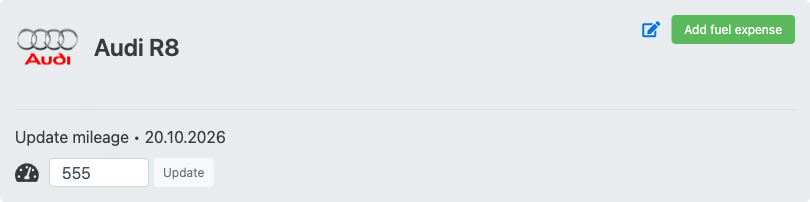
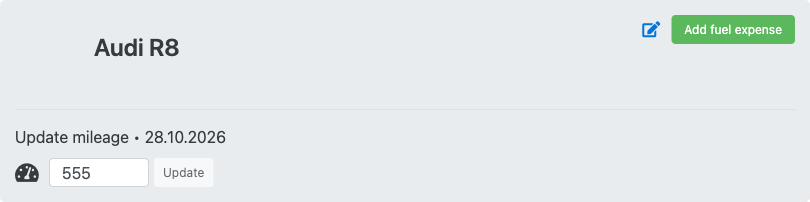
cosmetic changes

Changed region(s): [[0.0, 0.1188, 0.0926, 0.3267], [0.1852, 0.6535, 0.2778, 0.7129]]

diff --git a/tests/lesson.22/lesson.22.spec.ts b/tests/lesson.22/lesson.22.spec.ts
@@ -1,0 +1,144 @@
+import test, { expect } from "@playwright/test";
+
+test.beforeEach(async ({ page }) => {
+  await page.goto("https://qauto.forstudy.space/");
+  await page.getByRole("button", { name: "Sign up" }).click();
+});
+
+test("Register button - success sign up", async ({ page }) => {
+  await page.locator("#signupName").fill("John");
+  await page.locator("#signupLastName").fill("Smith");
+  await page.locator("#signupEmail").fill(`john+aqa${Date.now()}@gmail.com`);
+  await page.locator("#signupPassword").fill("Demo1234");
+  await page.locator("#signupRepeatPassword").fill("Demo1234");
+
+  await page.getByRole("button", { name: "Register" }).click();
+  await expect(page.locator("#userNavDropdown")).toBeVisible();
+});
+
+test("Name field - empty field", async ({ page }) => {
+  await page.locator("#signupName").focus();
+  await page.locator("#signupName").blur();
+  await expect(page.getByText("Name required")).toBeVisible();
+});
+
+test("Name field - wrong data", async ({ page }) => {
+  await page.locator("#signupName").fill(" !@#  ");
+  await page.locator("#signupName").blur();
+  await expect(page.getByText("Name is invalid")).toBeVisible();
+});
+
+test("Name field - wrong length", async ({ page }) => {
+  await page.locator("#signupName").fill("q");
+  await page.locator("#signupName").blur();
+  await expect(
+    page.getByText("Name has to be from 2 to 20 characters long"),
+  ).toBeVisible();
+});
+
+test("Name field - border red", async ({ page }) => {
+  await page.locator("#signupName").fill("q");
+  await page.locator("#signupName").blur();
+  await expect(page.locator("#signupName")).toHaveCSS(
+    "border-color",
+    "rgb(220, 53, 69)",
+  );
+});
+
+test("Last name field - empty field", async ({ page }) => {
+  await page.locator("#signupLastName").focus();
+  await page.locator("#signupLastName").blur();
+  await expect(page.getByText("Last name required")).toBeVisible();
+});
+
+test("Last name field - wrong data", async ({ page }) => {
+  await page.locator("#signupLastName").fill(" !@#  ");
+  await page.locator("#signupLastName").blur();
+  await expect(page.getByText("Last name is invalid")).toBeVisible();
+});
+
+test("Last name field - wrong length", async ({ page }) => {
+  await page.locator("#signupLastName").fill("q");
+  await page.locator("#signupLastName").blur();
+  await expect(
+    page.getByText("Last name has to be from 2 to 20 characters long"),
+  ).toBeVisible();
+});
+
+test("Last name field - border red", async ({ page }) => {
+  await page.locator("#signupLastName").fill("q");
+  await page.locator("#signupLastName").blur();
+  await expect(page.locator("#signupLastName")).toHaveCSS(
+    "border-color",
+    "rgb(220, 53, 69)",
+  );
+});
+
+test("Email field - empty field", async ({ page }) => {
+  await page.locator("#signupEmail").focus();
+  await page.locator("#signupEmail").blur();
+  await expect(page.getByText("Email required")).toBeVisible();
+});
+
+test("Email field - wrong data", async ({ page }) => {
+  await page.locator("#signupEmail").fill(" !@#  ");
+  await page.locator("#signupEmail").blur();
+  await expect(page.getByText("Email is incorrect")).toBeVisible();
+});
+
+test("Email field - border red", async ({ page }) => {
+  await page.locator("#signupEmail").fill("q");
+  await page.locator("#signupEmail").blur();
+  await expect(page.locator("#signupEmail")).toHaveCSS(
+    "border-color",
+    "rgb(220, 53, 69)",
+  );
+});
+
+test("Password field - empty field", async ({ page }) => {
+  await page.locator("#signupPassword").focus();
+  await page.locator("#signupPassword").blur();
+  await expect(page.getByText("Password required")).toBeVisible();
+});
+
+test("Password field - wrong length", async ({ page }) => {
+  await page.locator("#signupPassword").fill(" !  ");
+  await page.locator("#signupPassword").blur();
+  await expect(
+    page.getByText(
+      "Password has to be from 8 to 15 characters long" +
+        " and contain at least one integer, one capital, and one small letter",
+    ),
+  ).toBeVisible();
+});
+
+test("Password field - border red", async ({ page }) => {
+  await page.locator("#signupPassword").fill("q");
+  await page.locator("#signupPassword").blur();
+  await expect(page.locator("#signupPassword")).toHaveCSS(
+    "border-color",
+    "rgb(220, 53, 69)",
+  );
+});
+
+test("Re-enter password field - empty field", async ({ page }) => {
+  await page.locator("#signupRepeatPassword").focus();
+  await page.locator("#signupRepeatPassword").blur();
+  await expect(page.getByText("Re-enter password required")).toBeVisible();
+});
+
+test("Re-enter password field - passwords do not match", async ({ page }) => {
+  await page.locator("#signupPassword").fill("Demo1234");
+  await page.locator("#signupRepeatPassword").fill("Demo12345");
+  await page.locator("#signupRepeatPassword").blur();
+  await expect(page.getByText("Passwords do not match")).toBeVisible();
+});
+
+test("Re-enter password field - border red", async ({ page }) => {
+  await page.locator("#signupRepeatPassword").fill("q");
+  await page.locator("#signupRepeatPassword").blur();
+  await expect(page.locator("#signupRepeatPassword")).toHaveCSS(
+    "border-color",
+    "rgb(220, 53, 69)",
+  );
+});

diff --git a/page-object/pages/ExpensesPage.ts b/page-object/pages/ExpensesPage.ts
@@ -1,6 +1,6 @@
 import { expect, Locator } from "@playwright/test";
-import { BasePage } from "./BasePage";
-import { step } from "../../../utils/reports/decorator";
+import { BasePage } from "../base/BasePage";
+import { step } from "../../utils/reports/decorator";
 
 export class ExpensesPage extends BasePage {
   private readonly pageHeading: Locator = this.page.getByRole("heading", { name: "Fuel expenses" });
@@ -17,13 +17,13 @@ export class ExpensesPage extends BasePage {
     await this.page.waitForTimeout(300);
   }
 
-  @step("Check last expense")
+  @step()
   async verifyLastExpense(expectedDate: string, expectedMileage: string, expectedLiters: string, expectedCost: string) {
     const formattedCost = expectedCost.includes(".") ? `${expectedCost} USD` : `${expectedCost}.00 USD`;
 
-    await expect(this.lastAddedExpenseEntry.locator("td").nth(0)).toHaveText(expectedDate);
-    await expect(this.lastAddedExpenseEntry.locator("td").nth(1)).toHaveText(expectedMileage);
-    await expect(this.lastAddedExpenseEntry.locator("td").nth(2)).toHaveText(`${expectedLiters}L`);
-    await expect(this.lastAddedExpenseEntry.locator("td").nth(3)).toHaveText(formattedCost);
+    await this.checkTextEquals(this.lastAddedExpenseEntry.locator("td").nth(0), expectedDate);
+    await this.checkTextEquals(this.lastAddedExpenseEntry.locator("td").nth(1), expectedMileage);
+    await this.checkTextEquals(this.lastAddedExpenseEntry.locator("td").nth(2), `${expectedLiters}L`);
+    await this.checkTextEquals(this.lastAddedExpenseEntry.locator("td").nth(3), formattedCost);
   }
 }

diff --git a/utils/fixtures/pagesFixtures.ts b/utils/fixtures/pagesFixtures.ts
@@ -1,12 +1,12 @@
 import { test as base, Page } from "@playwright/test";
-import { SignInForm } from "../../lesson.23/PageObject/forms/SignInForm";
-import { GaragePage } from "../../lesson.23/PageObject/pages/GaragePage";
-import { AddCarForm } from "../../lesson.23/PageObject/forms/AddCarForm";
-import { HomePage } from "../../lesson.23/PageObject/pages/HomePage";
-import { AddExpenseForm } from "../../lesson.23/PageObject/forms/AddExpenseForm";
-import { ExpensesPage } from "../../lesson.23/PageObject/pages//ExpensesPage";
-import { ProfilePage } from "../../lesson.23/PageObject/pages/ProfilePage";
-import { EditProfileForm } from "../../lesson.23/PageObject/forms/EditProfileForm";
+import { SignInForm } from "../../page-object/forms/SignInForm";
+import { GaragePage } from "../../page-object/pages/GaragePage";
+import { AddCarForm } from "../../page-object/forms/AddCarForm";
+import { HomePage } from "../../page-object/pages/HomePage";
+import { AddExpenseForm } from "../../page-object/forms/AddExpenseForm";
+import { ExpensesPage } from "../../page-object/pages/ExpensesPage";
+import { ProfilePage } from "../../page-object/pages/ProfilePage";
+import { EditProfileForm } from "../../page-object/forms/EditProfileForm";
 
 type App = {
   page: Page;

diff --git a/tests/lesson.21/lesson.21.spec.ts b/tests/lesson.21/lesson.21.spec.ts
@@ -1,0 +1,28 @@
+import test, { expect } from "@playwright/test";
+
+test.beforeEach(async ({ page }) => {
+  await page.goto("https://qauto.forstudy.space/");
+});
+
+test("Check sign in button", async ({ page }) => {
+  const signIn = page.getByRole("button", { name: "Sign In" });
+  await expect(signIn).toBeVisible();
+});
+
+test("Check title", async ({ page }) => {
+  const section = page.locator("//*[@class='section hero']");
+  const title = section.locator("//*[contains(@class, 'title')]");
+
+  // v2:
+  //   const section = page.locator(".section.hero");
+  //   const title = section.locator("h1");
+  await expect(title).toHaveText("Do more!");
+});
+
+test("Images with alt=instructions", async ({ page }) => {
+  const images = page.locator("//img[contains(@alt, 'Instructions')]");
+
+  //v2:
+  // const images = page.getByAltText("Instructions");
+  await expect(images).toHaveCount(2);
+});

diff --git a/tests/lesson.18/lesson.18.spec.ts b/tests/lesson.18/lesson.18.spec.ts
@@ -1,0 +1,25 @@
+import test from "@playwright/test";
+
+test.beforeEach(async ({ page }) => {
+  await page.goto("https://qauto.forstudy.space/");
+});
+
+test("Highlight 'Sign in' button", async ({ page }) => {
+  const signInCss = page.locator("button.header_signin");
+  const signInXpath = page.locator("//button[text()='Sign In']");
+  const signInByRole = page.getByRole("button", { name: "Sign in" });
+
+  await signInCss.highlight();
+  await signInXpath.highlight();
+  await signInByRole.highlight();
+});
+
+test("Header texts", async ({ page }) => {
+  const home = page.getByText("Home");
+  const about = page.getByText("About");
+  const contacts = page.getByText("Contacts");
+
+  await home.highlight();
+  await about.highlight();
+  await contacts.highlight();
+});

diff --git a/utils/reports/decorator.ts b/utils/reports/decorator.ts
@@ -1,0 +1,23 @@
+
+import { test } from "@playwright/test";
+
+export function step(name?: string) {
+  return function <This, Args extends any[], Return>(
+    target: (this: This, ...args: Args) => Return,
+    context: ClassMethodDecoratorContext<This, (this: This, ...args: Args) => Return>,
+  ) {
+    const stepName =
+      name ??
+      context.name
+        .toString()
+        .replace(/([a-z0-9])([A-Z])/g, "$1 $2")
+        .toLowerCase()
+        .replace(/^./, (char) => char.toUpperCase());
+
+    return function (this: This, ...args: Args): Return {
+      return test.step(stepName, async () => {
+        return await target.apply(this, args);
+      }) as Return;
+    };
+  };
+}

diff --git a/tests/lesson.23/signIn.spec.ts b/tests/lesson.23/signIn.spec.ts
@@ -1,7 +1,7 @@
 import test, { expect } from "@playwright/test";
-import { HomePage } from "../../lesson.23/PageObject/pages/HomePage";
-import { SignInForm } from "../../lesson.23/PageObject/forms/SignInForm";
-import { GaragePage } from "../../lesson.23/PageObject/pages/GaragePage";
+import { HomePage } from "../../page-object/pages/HomePage";
+import { SignInForm } from "../../page-object/forms/SignInForm";
+import { GaragePage } from "../../page-object/pages/GaragePage";
 import { testUser1 } from "../../test-data/validUsers";
 import { generateRandomEmail, generateRandomPassword, generateWrongEmailFormat } from "../../utils/credentials";
 

diff --git a/tests/lesson.24/signIn.spec.ts b/tests/lesson.24/signIn.spec.ts
@@ -1,7 +1,7 @@
 import test, { expect } from "@playwright/test";
-import { HomePage } from "../../lesson.23/PageObject/pages/HomePage";
-import { SignInForm } from "../../lesson.23/PageObject/forms/SignInForm";
-import { GaragePage } from "../../lesson.23/PageObject/pages/GaragePage";
+import { HomePage } from "../../page-object/pages/HomePage";
+import { SignInForm } from "../../page-object/forms/SignInForm";
+import { GaragePage } from "../../page-object/pages/GaragePage";
 import { testUser1 } from "../../test-data/validUsers";
 import { generateRandomEmail, generateRandomPassword, generateWrongEmailFormat } from "../../utils/credentials";
 

diff --git a/page-object/base/BaseStep.ts b/page-object/base/BaseStep.ts
@@ -1,19 +1,13 @@
 import { expect, Locator, Page } from "@playwright/test";
 
-export class BasePage {
+export class BaseStep {
   protected readonly page: Page;
 
   constructor(page: Page) {
     this.page = page;
   }
 
-  async navigate(path: string) {
-    await this.page.goto(path);
-  }
-
   protected async checkTextEquals(element: Locator, expectedText: string) {
-    await expect(element).toBeVisible();
-
     const elementName = this.getLocatorName(element);
 
     console.info(`Checking element '${elementName}' text equals '${expectedText}'`);

diff --git a/tests/lesson.23/signUp.spec.ts b/tests/lesson.23/signUp.spec.ts
@@ -1,7 +1,7 @@
 import test, { expect } from "@playwright/test";
-import { HomePage } from "../../lesson.23/PageObject/pages/HomePage";
-import { SignUpForm } from "../../lesson.23/PageObject/forms/SignUpForm";
-import { GaragePage } from "../../lesson.23/PageObject/pages/GaragePage";
+import { HomePage } from "../../page-object/pages/HomePage";
+import { SignUpForm } from "../../page-object/forms/SignUpForm";
+import { GaragePage } from "../../page-object/pages/GaragePage";
 
 test.describe("Sign up tests with POM", () => {
   let homePage: HomePage;

diff --git a/tests/lesson.24/signUp.spec.ts b/tests/lesson.24/signUp.spec.ts
@@ -1,7 +1,7 @@
 import test, { expect } from "@playwright/test";
-import { HomePage } from "../../lesson.23/PageObject/pages/HomePage";
-import { SignUpForm } from "../../lesson.23/PageObject/forms/SignUpForm";
-import { GaragePage } from "../../lesson.23/PageObject/pages/GaragePage";
+import { HomePage } from "../../page-object/pages/HomePage";
+import { SignUpForm } from "../../page-object/forms/SignUpForm";
+import { GaragePage } from "../../page-object/pages/GaragePage";
 
 test.describe("Sign up tests with POM", () => {
   let homePage: HomePage;

diff --git a/tests/lesson.19/lesson.19.spec.ts b/tests/lesson.19/lesson.19.spec.ts
@@ -1,0 +1,16 @@
+import test from "@playwright/test";
+
+test.beforeEach(async ({ page }) => {
+  await page.goto("https://qauto.forstudy.space/");
+});
+
+test("Log all buttons count", async ({ page }) => {
+  const allButtons = page.getByRole("button");
+  console.log(await allButtons.count());
+});
+
+test("Highlight 'Sign In' by filter", async ({ page }) => {
+  const allButtons = page.getByRole("button");
+  const signInButton = allButtons.filter({ hasText: "Sign In" });
+  await signInButton.highlight();
+});
